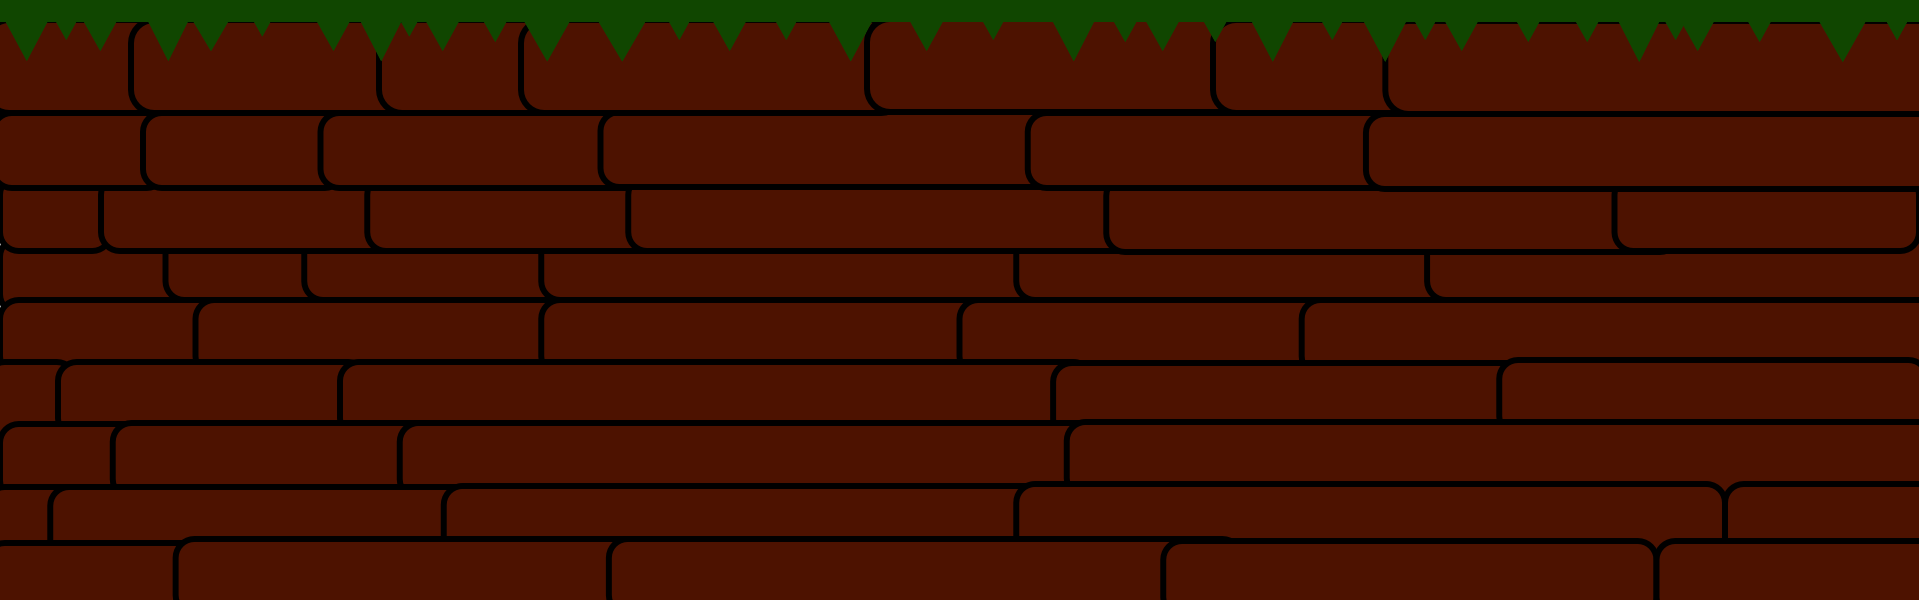
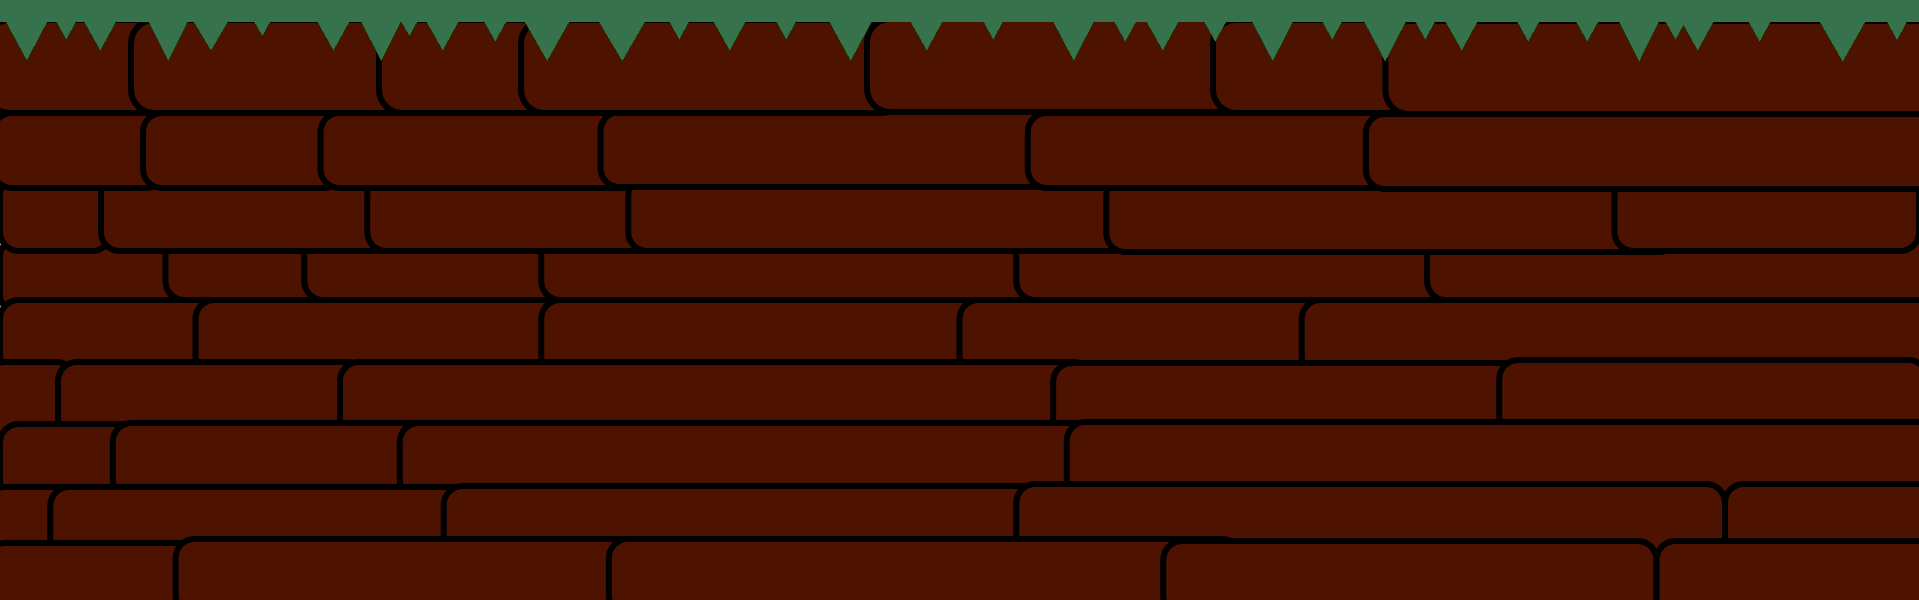
set possition correlating to ground position

Changed region(s): [[0.0, 0.0, 1.0, 0.09]]

diff --git a/src/BaseSprite.java b/src/BaseSprite.java
@@ -27,11 +27,11 @@ public abstract class BaseSprite implements BaseSpriteI {
 	 * @param Dimension panelDementions are the dimensions for the panel being used so the arrow can be placed at the correct y value
 	 */
 	protected BaseSprite(int x, String fileName, Dimension panelDimensions) {
-		int y = (int)(panelDimensions.height*.74);
+		this.loadImage(fileName);
+		int y = (int)(panelDimensions.height*.822) - img.getHeight();
 		target = new Point(x, y);
 		currentPosition = new Point(x, y);
 		dimensions = panelDimensions;
-		this.loadImage(fileName);
 		hitbox = new Rectangle(x, y, img.getWidth(), img.getHeight());
 	}
 	/**

diff --git a/src/KingdomController.java b/src/KingdomController.java
@@ -225,7 +225,7 @@ public class KingdomController extends JPanel
 		panelDimensions = this.getSize();
 
 		g.drawImage(backgroundImage, 0, 0, panelDimensions.width, (int)(panelDimensions.height*.88), null);
-		g.drawImage(groundImage, 0, (((int)panelDimensions.height/6)*5)-5, panelDimensions.width, (int)panelDimensions.height/3, null);
+		g.drawImage(groundImage, 0, (int)(panelDimensions.height*.822), panelDimensions.width, (int)panelDimensions.height/3, null);
 		g.setColor(backgroundColor);
 		g.fillRect(0, 0, panelDimensions.width, panelDimensions.height);
 

diff --git a/src/Arrow.java b/src/Arrow.java
@@ -72,7 +72,7 @@ public class Arrow extends CollisionSprite {
 			if (collidingSprites.get(i) instanceof Enemy) {
 				Enemy effected = (Enemy) collidingSprites.get(i);
 				effected.setRetreat();
-				colControl.addObject(new DroppedCoin(random.nextInt(20)+currentPosition.x, "coin.png", dimensions));
+				colControl.addObject(new DroppedCoin(currentPosition.x, "coin.png", dimensions));
 				colControl.deleteObject(effected);
 				delete = true;
 			}

diff --git a/src/Wall.java b/src/Wall.java
@@ -25,7 +25,6 @@ public class Wall extends CollisionSprite {
 	 */
 	protected Wall(int x, String fileName, Dimension panelDementions) {
 		super(x, fileName, panelDementions);
-		this.currentPosition.y = this.currentPosition.y - 10;
 	}
 	/**
 	 * destroyWall() setsVisible to false

diff --git a/src/Shop.java b/src/Shop.java
@@ -12,7 +12,6 @@ public class Shop extends BaseSprite{
 	 */
 	protected Shop(int x, String fileName, Dimension panelDimensions, ShopType shop) {
 		super(x, fileName, panelDimensions);
-		this.currentPosition.y = this.currentPosition.y - 50;
 		shopType = shop;
 	}
 	/**
